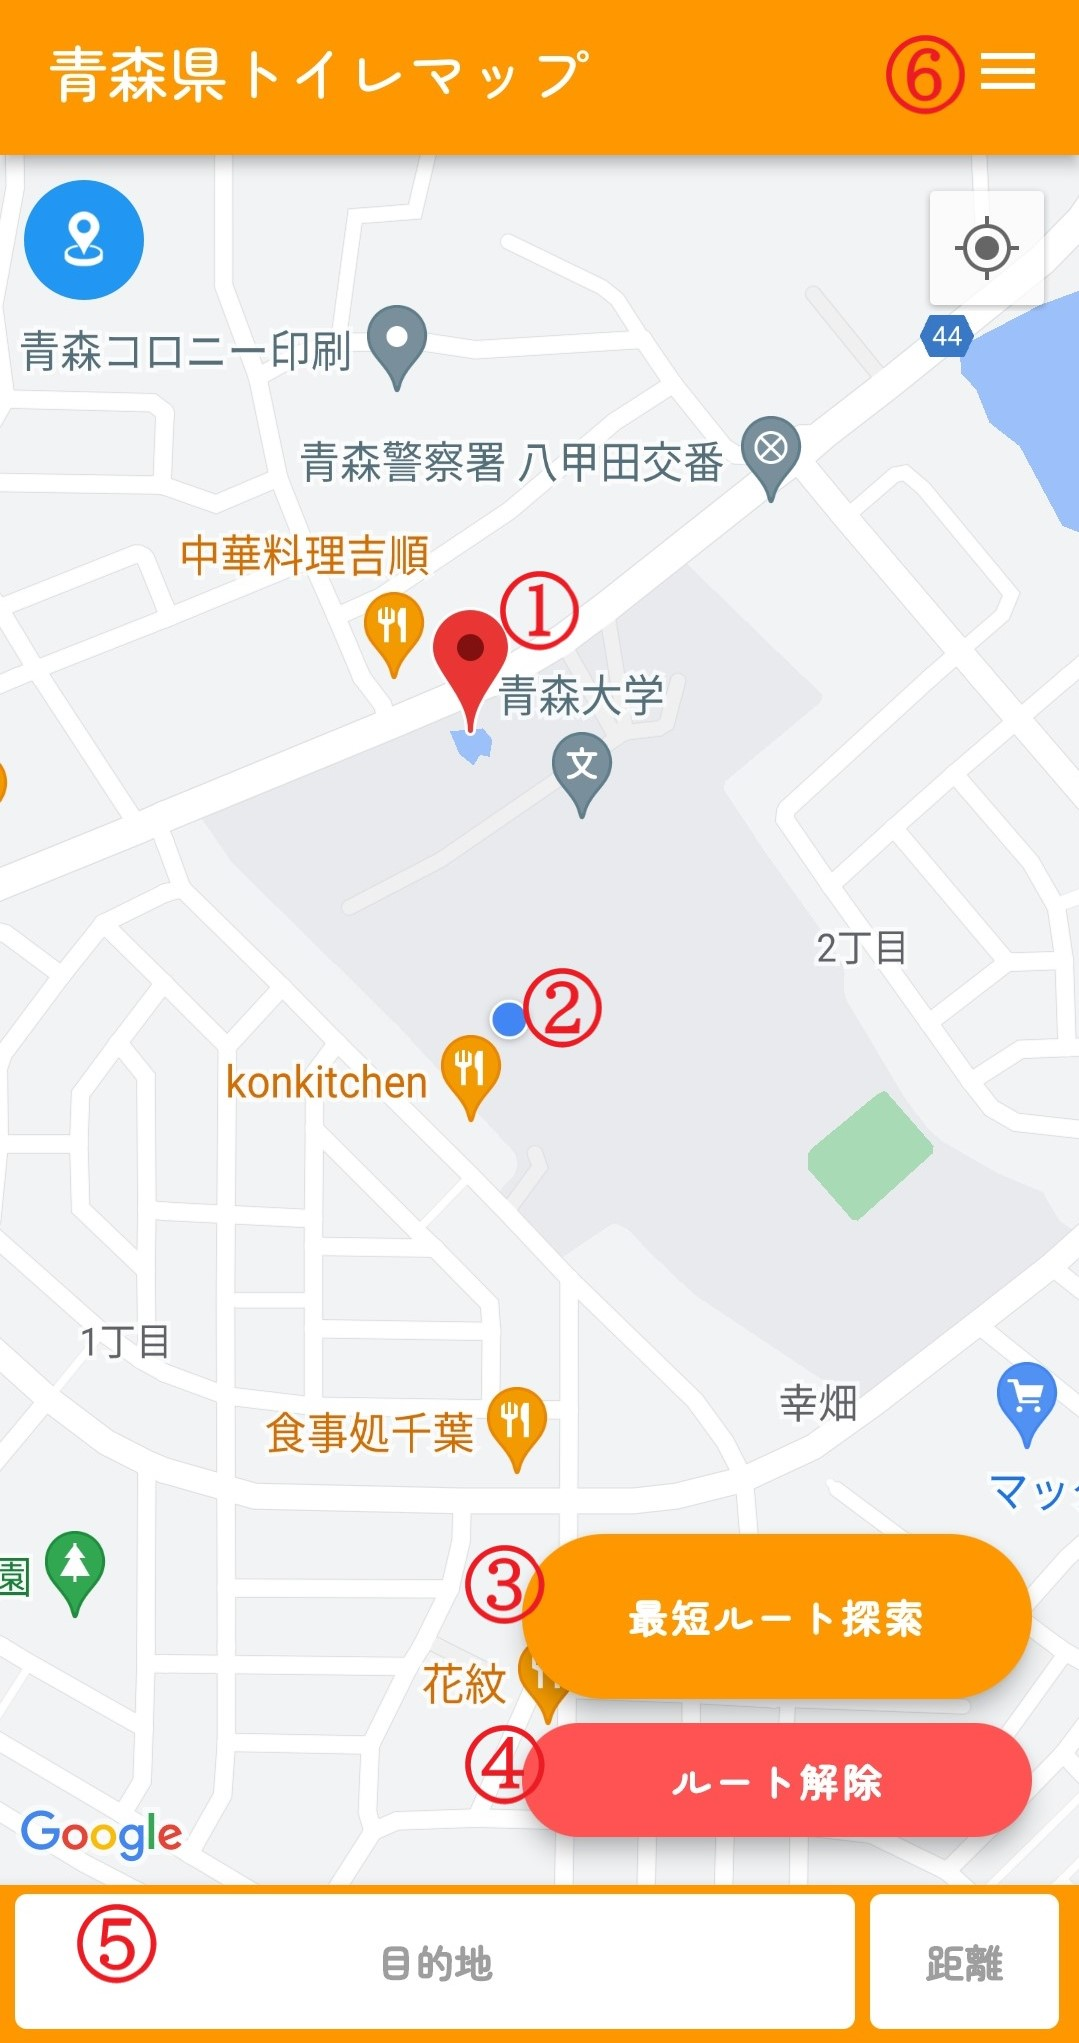
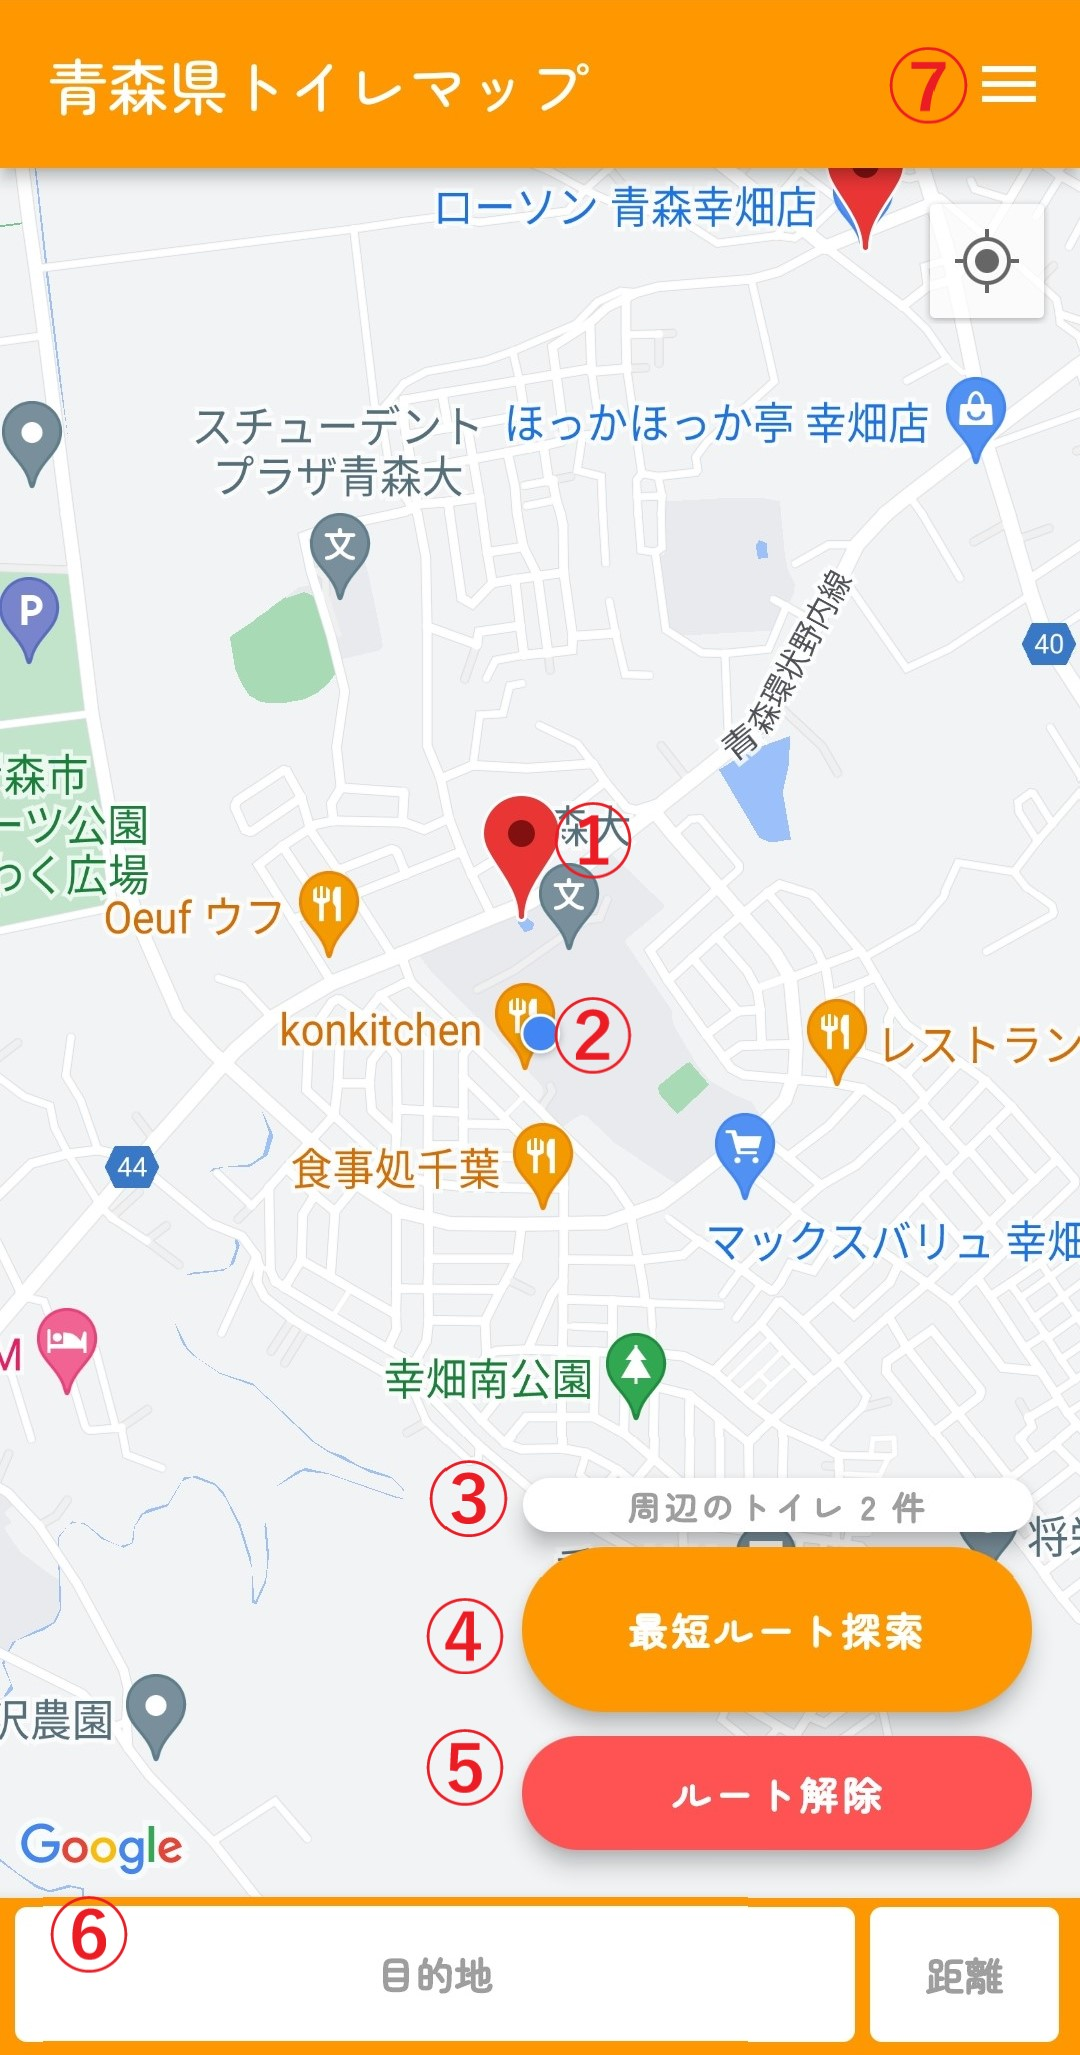
Mapアプリ プライバシーポリシーを外部サイトに変更、アプリの使い方画面修正

diff --git a/lib/AppUsage.dart b/lib/AppUsage.dart
@@ -69,21 +69,26 @@ class _AppUsageState extends State<AppUsage> {
                       Text(
                           '　　今の自分の現在地です。自分が移動すればアプリ\n'
                           '　　も同時に動きます。\n'),
-                      Text('③ 最短ルート検索',
+                      Text('③ 周辺のトイレ数',
+                        style: TextStyle(fontSize:15,fontWeight: FontWeight.bold),),
+                      Text(
+                          '　　自分を中心に縦1㎞×横1㎞の領域にあるトイレの\n'
+                          '　　数です。\n'),
+                      Text('④ 最短ルート検索',
                         style: TextStyle(fontSize:15,fontWeight: FontWeight.bold),),
                       Text(
                           '　　現在地から一番近いトイレを案内します。\n'),
-                      Text('④ ルート解除',
+                      Text('⑤ ルート解除',
                         style: TextStyle(fontSize:15,fontWeight: FontWeight.bold),),
                       Text(
                           '　　ルート検索後、ルートを解除することができるボ\n'
                           '　　タンです。\n'),
-                      Text('⑤ 目的地、距離',
+                      Text('⑥ 目的地、距離',
                         style: TextStyle(fontSize:15,fontWeight: FontWeight.bold),),
                       Text(
                           '　　ルート検索時に目標地点としているトイレの名前\n'
                           '　　と距離を表示します。\n'),
-                      Text('⑥ メニュー一覧',
+                      Text('⑦ メニュー一覧',
                         style: TextStyle(fontSize:15,fontWeight: FontWeight.bold),),
                       Text(
                           '　　メニューの内容は下画像の通りです。\n'),

diff --git a/lib/main.dart b/lib/main.dart
@@ -8,7 +8,6 @@ import 'package:google_maps_flutter/google_maps_flutter.dart';
 import 'package:google_maps_routes/google_maps_routes.dart';
 import 'package:geolocator/geolocator.dart';
 import 'package:shared_preferences/shared_preferences.dart';
-import 'PrivacyPolicy.dart';
 import 'AppUsage.dart';
 
 void main() async {
@@ -202,12 +201,14 @@ class _MyHomePageState extends State<MyHomePage> {
                   ListTile(
                     title: Text("プライバシーポリシー"),
                     onTap: () async {
-                      Navigator.push(
-                        context,
-                        MaterialPageRoute(
-                          builder: (context) => PrivacyPolicy(),
-                        ),
+                      final url = Uri.parse(
+                        'https://doc-hosting.flycricket.io/qing-sen-toirematsupu-privacy-policy/a50969e5-20bc-4078-8154-973983d95328/privacy',
                       );
+                      if (await canLaunchUrl(url)) {
+                        launchUrl(url);
+                      } else {
+                        print("Can't launch $url");
+                      }
                     },
                   ),
                   ExpansionTile(
